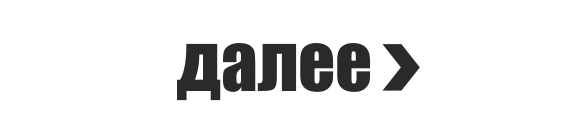
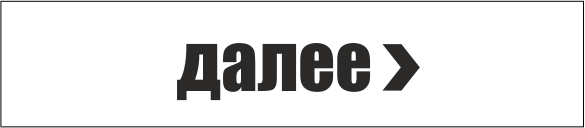
Tutorial's locations

Changed region(s): [[0.0, 0.0, 1.0, 1.0]]

diff --git a/src/main/java/com/ardublock/ui/TutorialPane.java b/src/main/java/com/ardublock/ui/TutorialPane.java
@@ -78,15 +78,16 @@ public class TutorialPane extends JPanel {
         exitButton.setIcon(new ImageIcon(imageRaw));
         exitButton.setLocation(0/*this.openblocksFrame.rightPanel.getX()*/, 0/*this.openblocksFrame.rightPanel.getY()-this.openblocksFrame.rightPanel.getHeight()*/);
 //        exitButton.set
-        
+
 //        this.openblocksFrame.
-        this.factoryPanel.add(exitButton);
+        this.rightTopPanel.add(exitButton);
         exitButton.addActionListener(new ActionListener() {
             public void actionPerformed(ActionEvent e) {
                 tutorialPane.removeAll();
                 openblocksFrame.repaint();
             }
         });
+        exitButton.setLocation(rightTopPanel.getWidth() - 140, 0);
 
         JSplitPane workLayer = openblocksFrame.getContext().getWorkspace().workLayer;
         workLayer.addPropertyChangeListener(new PropertyChangeListener() {
@@ -115,6 +116,9 @@ public class TutorialPane extends JPanel {
             this.resetPanels();
             this.inactiveTutorPanels.get(iter).add(tutorTextPanel);
             tutorTextPanel.setText(this.tutorTexts.get(iter));
+            tutorTextPanel.setTextColor(tutorColors.get(iter));
+            tutorTextPanel.changeDimension(this.tutorDimensions.get(iter));
+            tutorTextPanel.changeLocation(this.tutorLocations.get(iter));
         } else if (iter == this.inactiveTutorPanels.size()) {
             tutorialPane.removeAll();
             openblocksFrame.repaint();
@@ -123,6 +127,8 @@ public class TutorialPane extends JPanel {
             this.inactiveTutorPanels.get(iter).add(tutorTextPanel);
             tutorTextPanel.setText(this.tutorTexts.get(iter));
             tutorTextPanel.setTextColor(tutorColors.get(iter));
+            tutorTextPanel.changeDimension(this.tutorDimensions.get(iter));
+            tutorTextPanel.changeLocation(this.tutorLocations.get(iter));
 
             if (this.activeAnimPanels.get(iter).get(0) != this.activeAnimPanels.get(lastIter).get(0)
                     || iter == 1) {
@@ -137,12 +143,6 @@ public class TutorialPane extends JPanel {
                     pane.startAnimation();
                 }
             }
-//        if (!this.tutorDimensions.get(iter).equals(null)) {
-//            tutorTextPanel.setSize(this.tutorDimensions.get(iter));
-//        }
-//        if (!this.tutorLocations.get(iter).equals(null)) {
-//            tutorTextPanel.setLocation(this.tutorLocations.get(iter));
-//        }
         }
         this.inactiveTutorPanels.get(iter).repaint();
 
@@ -263,8 +263,10 @@ public class TutorialPane extends JPanel {
         tutorIllumPanels.add(temp);
         inactiveTutorPanels.add(workspacePanel);
         tutorTexts.add("Обучение. Нажмите на \"крестик\" для выхода из обучения. Кнопки \"Далее\" и \"Назад\" используются для перехда к следующему шагу или возвращения к предыдущему. Во время обучения можно использовать все элементы интерфейса.");
-        tutorLocations.add(null);
-        tutorDimensions.add(null);
+        tutorLocations.add(new Point(
+                (workspacePanel.getWidth() - 300) / 2,
+                (workspacePanel.getHeight() - 150) / 3));
+        tutorDimensions.add(new Dimension(300, 150));
         tutorColors.add(Color.WHITE);
         //2
         temp = new ArrayList();
@@ -275,8 +277,10 @@ public class TutorialPane extends JPanel {
         tutorIllumPanels.add(temp);
         inactiveTutorPanels.add(workspacePanel);
         tutorTexts.add("Панель для выбора блоков.");
-        tutorLocations.add(null);
-        tutorDimensions.add(null);
+        tutorLocations.add(new Point(
+                (workspacePanel.getWidth() - 200) / 10,
+                (workspacePanel.getHeight() - 100) / 3));
+        tutorDimensions.add(new Dimension(200, 100));
         tutorColors.add(Color.WHITE);
         //3
         temp = new ArrayList();
@@ -287,8 +291,10 @@ public class TutorialPane extends JPanel {
         tutorIllumPanels.add(temp);
         inactiveTutorPanels.add(factoryPanel);
         tutorTexts.add("Холст, где будет писаться программа. ВНИМАНИЕ: выполняются только те блоки, которые подключены в \"ЦИКЛ\" или \"ПРОГРАММА\". Дополнительные детали работы с блоками описаны в методичке.");
-        tutorLocations.add(null);
-        tutorDimensions.add(null);
+        tutorLocations.add(new Point(
+                (factoryPanel.getWidth() - 300) / 2,
+                (factoryPanel.getHeight() - 200) / 3));
+        tutorDimensions.add(new Dimension(300, 200));
         tutorColors.add(Color.WHITE);
         //4
         temp = new ArrayList();
@@ -299,8 +305,10 @@ public class TutorialPane extends JPanel {
         tutorIllumPanels.add(temp);
         inactiveTutorPanels.add(workspacePanel);
         tutorTexts.add("Подключения к контроллеру. Здесь указаны/отражены/обозначены подсказки при составлении программы.");
-        tutorLocations.add(null);
-        tutorDimensions.add(null);
+        tutorLocations.add(new Point(
+                (workspacePanel.getWidth() - 300) / 10 * 9,
+                (workspacePanel.getHeight() - 150) / 3));
+        tutorDimensions.add(new Dimension(300, 150));
         tutorColors.add(Color.WHITE);
         //5
         temp = new ArrayList();
@@ -311,8 +319,10 @@ public class TutorialPane extends JPanel {
         tutorIllumPanels.add(temp);
         inactiveTutorPanels.add(workspacePanel);
         tutorTexts.add("Кнопки для работы с программой.");
-        tutorLocations.add(null);
-        tutorDimensions.add(null);
+        tutorLocations.add(new Point(
+                (workspacePanel.getWidth() - 260) / 5,
+                (workspacePanel.getHeight() - 100) / 10));
+        tutorDimensions.add(new Dimension(260, 100));
         tutorColors.add(Color.WHITE);
         //6
         temp = new ArrayList();
@@ -323,8 +333,10 @@ public class TutorialPane extends JPanel {
         tutorIllumPanels.add(temp);
         inactiveTutorPanels.add(workspacePanel);
         tutorTexts.add("Перейдем к выбору блоков. Любой блок разделяется на 3 типа - изначальный блок, управляющий блок, блок-команда и блок-переменная. Блоки-команды нужно подключать с помощью разъемов-выемок друг к другу, блоки-переменные подключаются к блокам-командам справа с помощью разъема. Изначальные блоки - это \"ЦИКЛ\" и \"ПРОГРАММА\". Они никуда не подключаются, к ним подключаются все остальные блоки.");
-        tutorLocations.add(null);
-        tutorDimensions.add(null);
+        tutorLocations.add(new Point(
+                (workspacePanel.getWidth() - 300) / 10,
+                (workspacePanel.getHeight() - 300) / 3));
+        tutorDimensions.add(new Dimension(300, 300));
         tutorColors.add(Color.WHITE);
         //7
         temp = new ArrayList();
@@ -336,8 +348,10 @@ public class TutorialPane extends JPanel {
         tutorIllumPanels.add(temp);
         inactiveTutorPanels.add(controllerPanel);
         tutorTexts.add("Попробуйте вытащить любой блок-команду и подключите его к циклу. ПОДСКАЗКА: ориентируйтесь по форме блоков.");
-        tutorLocations.add(null);
-        tutorDimensions.add(null);
+        tutorLocations.add(new Point(
+                (controllerPanel.getWidth() - 300) / 2,
+                (controllerPanel.getHeight() - 150) / 3));
+        tutorDimensions.add(new Dimension(300, 150));
         tutorColors.add(Color.WHITE);
         //8
         temp = new ArrayList();
@@ -349,8 +363,10 @@ public class TutorialPane extends JPanel {
         tutorIllumPanels.add(temp);
         inactiveTutorPanels.add(controllerPanel);
         tutorTexts.add("Выберите категорию \"СЕРВОПРИВОД\" и подключите к своей программе понравившийся блок.");
-        tutorLocations.add(null);
-        tutorDimensions.add(null);
+        tutorLocations.add(new Point(
+                (controllerPanel.getWidth() - 300) / 2,
+                (controllerPanel.getHeight() - 150) / 3));   
+        tutorDimensions.add(new Dimension(300, 150));
         tutorColors.add(Color.WHITE);
         //9
         temp = new ArrayList();
@@ -361,8 +377,10 @@ public class TutorialPane extends JPanel {
         tutorIllumPanels.add(temp);
         inactiveTutorPanels.add(workspacePanel);
         tutorTexts.add("Для поиска нужного блока можно обратиться к \"Поиску\" - без забыли и точно без лень искать. Например, вы можете написать в строку поиска \"задержка\" и получите блоки-команды, которые выполняют функцию задержки перед следующими командами. Добавьте понравившийся блок в программу. - еще на счет обращений не уверена, возможно все нужно будет писать \"обезличенно\", но это нужно будет подумать и уточнить как лучше");
-        tutorLocations.add(null);
-        tutorDimensions.add(null);
+        tutorLocations.add(new Point(
+                (workspacePanel.getWidth() - 300) / 10,
+                (workspacePanel.getHeight() - 300) / 3));
+        tutorDimensions.add(new Dimension(300, 300));
         tutorColors.add(Color.WHITE);
         //10
         temp = new ArrayList();
@@ -373,8 +391,10 @@ public class TutorialPane extends JPanel {
         tutorIllumPanels.add(temp);
         inactiveTutorPanels.add(factoryPanel);
         tutorTexts.add("Да у вас уже столько блоков в программе! Попробуйте отдалить или приблизить камеру. ПОДСКАЗКА: Знак \"=\" - это изначальный масштаб.");
-        tutorLocations.add(null);
-        tutorDimensions.add(null);
+        tutorLocations.add(new Point(
+                (factoryPanel.getWidth() - 300) / 2,
+                (factoryPanel.getHeight() - 170) / 3));                
+        tutorDimensions.add(new Dimension(300, 170));
         tutorColors.add(Color.WHITE);
         //11
         temp = new ArrayList();
@@ -385,8 +405,10 @@ public class TutorialPane extends JPanel {
         tutorIllumPanels.add(temp);
         inactiveTutorPanels.add(workspacePanel);
         tutorTexts.add("Теперь попробуем сгенерировать код программы. Обратите внимание, что при генерации в всплывающем окне Arduino IDE появляется код, соответствующий составленной вами программе.");
-        tutorLocations.add(null);
-        tutorDimensions.add(null);
+        tutorLocations.add(new Point(
+                (workspacePanel.getWidth() - 300) / 10,
+                (workspacePanel.getHeight() - 200) / 15));
+        tutorDimensions.add(new Dimension(300, 200));
         tutorColors.add(Color.WHITE);
         //12
         temp = new ArrayList();
@@ -397,8 +419,10 @@ public class TutorialPane extends JPanel {
         tutorIllumPanels.add(temp);
         inactiveTutorPanels.add(workspacePanel);
         tutorTexts.add("Нажмите на кнопку \"Сгенерировать код\" - тут надо будет картинку кнопки или она будет подсвечиватся тоже?. Если вы все сделали правильно (тут сразу возникает вопрос а что все сделали правильно? все правильно слишком общее мне кажется. Может написать как-то: \"Произойдет компиляция кода, если блоки подобраны правильно/по правилам (ведь писали до этого что там надо чтобы они сответствовали друг другу), то код просто скомпилируется. Это значит, что код будет работать и его можно загрузить на контроллер.");
-        tutorLocations.add(null);
-        tutorDimensions.add(null);
+        tutorLocations.add(new Point(
+                (workspacePanel.getWidth() - 300) / 10,
+                (workspacePanel.getHeight() - 300) / 15));
+        tutorDimensions.add(new Dimension(300, 300));
         tutorColors.add(Color.WHITE);
         //13
         temp = new ArrayList();
@@ -409,8 +433,10 @@ public class TutorialPane extends JPanel {
         tutorIllumPanels.add(temp);
         inactiveTutorPanels.add(workspacePanel);
         tutorTexts.add("Попробуем собрать нашего робота. Возьмите плату ОмегаБота и Светодиод.");
-        tutorLocations.add(null);
-        tutorDimensions.add(null);
+        tutorLocations.add(new Point(
+                (workspacePanel.getWidth() - 300) / 10 * 9,
+                (workspacePanel.getHeight() - 100) / 10 * 2));
+        tutorDimensions.add(new Dimension(300, 100));
         tutorColors.add(Color.WHITE);
         //14
         temp = new ArrayList();
@@ -428,8 +454,10 @@ public class TutorialPane extends JPanel {
         tutorIllumPanels.add(temp); //TODO
         inactiveTutorPanels.add(workspacePanel);
         tutorTexts.add("Нажатием на коннектор (разъем) вы откроете список модулей, которые можно к нему подключить. Схема в программе соответствует реальной плате, поэтому подключать модули можно ориентируясь на нее.");
-        tutorLocations.add(null);
-        tutorDimensions.add(null);
+        tutorLocations.add(new Point(
+                (workspacePanel.getWidth() - 300) / 10 * 9,
+                (workspacePanel.getHeight() - 200) / 10 * 2));
+        tutorDimensions.add(new Dimension(300, 200));
         tutorColors.add(Color.WHITE);
         //15
         temp = new ArrayList();
@@ -447,8 +475,10 @@ public class TutorialPane extends JPanel {
         tutorIllumPanels.add(temp); //TODO
         inactiveTutorPanels.add(workspacePanel);
         tutorTexts.add("Нажмите на сам модуль в изображении или на его название в списке. Вы получите краткое описание модуля и его изображение о модуле и как он примерно выглядит в реальности. Так же в панели вы можете получить блоки, которые могут взаимодействовать с модулем.");
-        tutorLocations.add(null);
-        tutorDimensions.add(null);
+        tutorLocations.add(new Point(
+                (workspacePanel.getWidth() - 300) / 10 * 9,
+                (workspacePanel.getHeight() - 200) / 10 * 2));
+        tutorDimensions.add(new Dimension(300, 200));
         tutorColors.add(Color.WHITE);
         //16
         temp = new ArrayList();
@@ -460,8 +490,10 @@ public class TutorialPane extends JPanel {
         inactiveTutorPanels.add(controllerPanel);
         tutorTexts.add("Теперь удалите ранее написанную вами программу, но не блок \"ЦИКЛ\". Хотя, если вы и его удалили, то можете его достать в категории \"УПРАВЛЕНИЕ\". - не понимаю к чему это..про удалите это, не удаляйте то\n"
                 + "Если здесь про возможность удалять блоки, то можно просто написать вот так то и так то можно удалять блоки.");
-        tutorLocations.add(null);
-        tutorDimensions.add(null);
+        tutorLocations.add(new Point(
+                (controllerPanel.getWidth() - 300) / 2,
+                (controllerPanel.getHeight() - 300) / 10 * 2));
+        tutorDimensions.add(new Dimension(300, 300));
         tutorColors.add(Color.WHITE);
         //17
         temp = new ArrayList();
@@ -474,8 +506,10 @@ public class TutorialPane extends JPanel {
         tutorIllumPanels.add(temp);
         inactiveTutorPanels.add(workspacePanel);
         tutorTexts.add("Перейдем к небольшой тренировке. Найдите блок \"СВЕТОДИОД\". Добавьте его в программу, в номере порта укажите тот порт, к которому подключен светодиод на плате, а в состоянии укажите \"ВЫСОКИЙ\". Под высоким подразумевается сигнал - то есть светодиод будет гореть.");
-        tutorLocations.add(null);
-        tutorDimensions.add(null);
+        tutorLocations.add(new Point(
+                (workspacePanel.getWidth() - 300) / 15 * 14,
+                (workspacePanel.getHeight() - 300) / 10 * 2));
+        tutorDimensions.add(new Dimension(300, 300));
         tutorColors.add(Color.BLACK);
         //18
         temp = new ArrayList();
@@ -486,8 +520,10 @@ public class TutorialPane extends JPanel {
         tutorIllumPanels.add(temp);
         inactiveTutorPanels.add(workspacePanel);
         tutorTexts.add("Теперь подключите к компьютеру вашу плату с подключенным к ней светодиодом. Нажмите на кнопку \"Отправить в Ардуино\" - картинка кнопки или подсветка. Если вы все сделали верно, то в окне с кодом в выводе вы получите либо сообщение о удачной загрузке, либо ошибку о загрузке в плату. Во втором случае вам нужно будет открыть \"Инструменты\", выбрать \"Порт\" и в выпадающем списке выбрать существующий COM-порт.  - но нужно продумать что реально делать если это так и случится...как вариант сделать на сайте раздел \"вопросы и ошибки\" чтобы если что понимат что может идти не так, если у нас не предусмотрены сообщения об ошибках которые отпраляются");
-        tutorLocations.add(null);
-        tutorDimensions.add(null);
+        tutorLocations.add(new Point(
+                (workspacePanel.getWidth() - 300) / 10,
+                (workspacePanel.getHeight() - 300) / 15));
+        tutorDimensions.add(new Dimension(300, 300));
         tutorColors.add(Color.WHITE);
         //19
         temp = new ArrayList();
@@ -498,8 +534,10 @@ public class TutorialPane extends JPanel {
         tutorIllumPanels.add(temp);
         inactiveTutorPanels.add(workspacePanel);
         tutorTexts.add("Если светодиод на вашей плате загорелся, то поздравляем! Вы прошли обучение и готовы писать собственные программы для своего ОмегаБота!");
-        tutorLocations.add(null);
-        tutorDimensions.add(null);
+        tutorLocations.add(new Point(
+                (workspacePanel.getWidth() - 300) / 2,
+                (workspacePanel.getHeight() - 150) / 3));
+        tutorDimensions.add(new Dimension(300, 150));
         tutorColors.add(Color.WHITE);
     }
 }

diff --git a/src/main/java/com/ardublock/ui/TPanel.java b/src/main/java/com/ardublock/ui/TPanel.java
@@ -5,6 +5,7 @@ import java.awt.Dimension;
 import java.awt.Font;
 import java.awt.Image;
 import java.awt.Insets;
+import java.awt.Point;
 import java.awt.event.ActionEvent;
 import java.awt.event.ActionListener;
 import java.net.URL;
@@ -48,9 +49,9 @@ public class TPanel extends JPanel {
         Image imageRaw = image.getImage().getScaledInstance(
                 width / 2 - 10, 30, java.awt.Image.SCALE_SMOOTH);
         prevButton = new JButton(new ImageIcon(imageRaw)/*"< НАЗАД"*/);
-        prevButton.setFont(new Font("Impact", Font.PLAIN, 14));
-//        prevButton.setMargin(new Insets(0, 0, 0, 0));
-//        prevButton.setIconTextGap(0);
+//        prevButton.setFont(new Font("Impact", Font.PLAIN, 14));
+        prevButton.setMargin(new Insets(0, 0, 0, 0));
+        prevButton.setIconTextGap(0);
         prevButton.setBorderPainted(false);
         prevButton.setBorder(null);
         prevButton.setFocusable(false);
@@ -66,6 +67,8 @@ public class TPanel extends JPanel {
                 width / 2 - 10, 30, java.awt.Image.SCALE_SMOOTH);
         nextButton = new JButton(new ImageIcon(imageRaw)/*"ДАЛЕЕ >"*/);
 //        nextButton.setFont(new Font("Impact", Font.PLAIN, 14));
+        nextButton.setMargin(new Insets(0, 0, 0, 0));
+        nextButton.setIconTextGap(0);
         nextButton.setBorderPainted(false);
         nextButton.setBorder(null);
         nextButton.setFocusable(true);
@@ -96,7 +99,7 @@ public class TPanel extends JPanel {
 
         prevButton.addActionListener(new ActionListener() {
             public void actionPerformed(ActionEvent e) {
-                if (tutorialPane.iter < tutorialPane.activeAnimPanels.size()) {
+                if (tutorialPane.iter > -1) {
                     if (tutorialPane.activeAnimPanels.get(tutorialPane.iter).get(0).animationIsFinished) {
                         if (!tutorialPane.tutorIllumPanels.get(tutorialPane.iter).get(0).animationIsFinished) {
                             for (IllumPanel pane : tutorialPane.tutorIllumPanels.get(tutorialPane.iter)) {
@@ -116,14 +119,33 @@ public class TPanel extends JPanel {
         this.tutorialText.setText(newText);
     }
 
-    public void changeLocation(int x, int y) {
-        this.setLocation(x, y);
-        this.getParent().repaint();
+    public void changeLocation(Point p) {
+        this.setLocation(p.x, p.y);
+        this.repaint();
     }
 
-    public void changeDimension(int width, int height) {
-        this.setSize(width, height);
-        this.getParent().repaint();
+    public void changeDimension(Dimension d) {
+        this.width = d.width;
+        this.height = d.height;
+        
+        this.setSize(new Dimension(width, height));
+        this.repaint();
+        
+        tutorialText.setSize(new Dimension(width, height - 40));
+        tutorialText.setPreferredSize(new Dimension(width, height - 40));
+        tutorialText.repaint();
+        
+        prevButton.setSize(new Dimension(width / 2 - 10, 30));
+        prevButton.setPreferredSize(new Dimension(width / 2 - 10, 30));
+        prevButton.setLocation(0, this.tutorialText.getHeight()/*height - 40*/);
+        prevButton.repaint();
+        
+        nextButton.setSize(new Dimension(width / 2 - 10, 30));
+        nextButton.setPreferredSize(new Dimension(width / 2 - 10, 30));
+        nextButton.setLocation(width / 2, this.tutorialText.getHeight()/*height - 40*/);
+        nextButton.repaint();
+        
+        this.updateUI();
     }
 
     public void setTextColor(Color newColor) {
